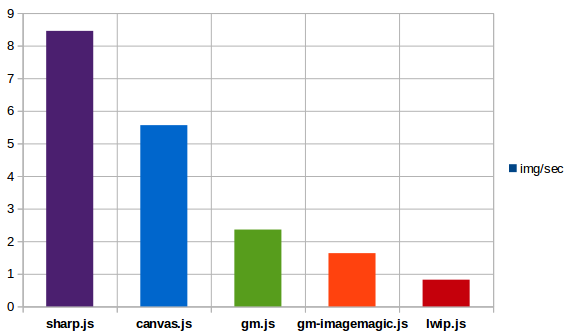
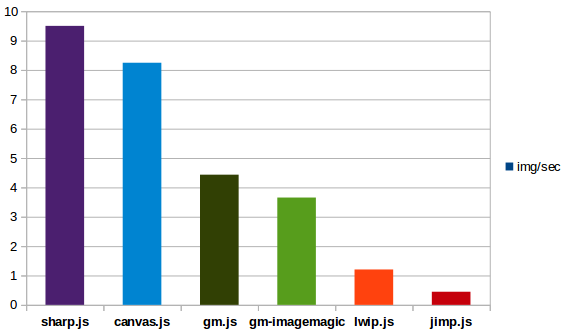
add jimp module

Changed region(s): [[0.0, 0.0, 0.8664, 0.988], [0.8664, 0.479, 0.9859, 0.5389]]

diff --git a/modules/jimp.js b/modules/jimp.js
@@ -1,0 +1,45 @@
+'use strict';
+
+var Jimp = require("jimp");
+var calc = require('../lib/calculator');
+
+exports.process = function (fullImagePath, fullImagePathResult, size, callback) {
+
+  Jimp.read(fullImagePath, function (err, image) {
+    if (err) throw err;
+
+    var imgParams = calc.correctSize(image.bitmap.width, image.bitmap.height, size[0], size[1]);
+
+    image.resize(imgParams['width'], imgParams['height'])
+      .crop(imgParams['dx'], 0, size[0], size[1])
+      .write(fullImagePathResult, function (err) {
+        if (err) console.log(err);
+          callback();
+        });
+  });
+}
+
+/*
+//gm convert ../original/7360_Nikon-D810-Image-Sample-6.jpg -resize 2000x2000 result/7360_Nikon-D810-Image-Sample-6_2000.jpg
+var gm = require('gm');
+var calc = require('../lib/calculator');
+
+exports.process = function (fullImagePath, fullImagePathResult, size, callback) {
+  var imgParams = [];
+  gm(fullImagePath)
+    .size(function (err, imageSize) {
+      if (!err) {
+        imgParams = calc.correctSize(imageSize.width, imageSize.height, size[0], size[1]);
+        this
+          .resize(imgParams['width'], imgParams['height'])
+          .crop(size[0], size[1], imgParams['dx'], 0)
+          .write(fullImagePathResult, function (err) {
+            if (err) console.log(err);
+            callback();
+          });
+      } else {
+        callback( err );
+      }
+    })
+}
+*/

diff --git a/README.md b/README.md
@@ -60,15 +60,16 @@ Found images:
   Bluestone-valley-view_-_Virginia_-_ForestWander.jpg
 Found modules: canvas.js, gm-imagemagic.js, gm.js, lwip.js
 == START ==
-sharp.js : 8.451 img/sec; done in 11.832713 sec; minCPUidle: 92%; minFreeMem: 533Mb; MaxLoadAvg: 0.49
-canvas.js : 5.561 img/sec; done in 17.983573 sec; minCPUidle: 92%; minFreeMem: 492Mb; MaxLoadAvg: 0.34
-gm.js : 2.359 img/sec; done in 42.397843 sec; minCPUidle: 92%; minFreeMem: 459Mb; MaxLoadAvg: 1.4
-gm-imagemagic.js : 1.633 img/sec; done in 61.248407 sec; minCPUidle: 92%; minFreeMem: 464Mb; MaxLoadAvg: 1.41
-lwip.js : 0.821 img/sec; done in 121.843491 sec; minCPUidle: 92%; minFreeMem: 142Mb; MaxLoadAvg: 1.02
+sharp.js : 9.501 img/sec; done in 10.525585 sec; minCPUidle: 95%; minFreeMem: 929Mb; MaxLoadAvg: 0.68
+canvas.js : 8.246 img/sec; done in 12.12766 sec; minCPUidle: 95%; minFreeMem: 578Mb; MaxLoadAvg: 0.88
+gm.js : 4.433 img/sec; done in 22.557112 sec; minCPUidle: 95%; minFreeMem: 791Mb; MaxLoadAvg: 1.18
+gm-imagemagic.js : 3.654 img/sec; done in 27.367915 sec; minCPUidle: 95%; minFreeMem: 804Mb; MaxLoadAvg: 1.33
+lwip.js : 1.203 img/sec; done in 83.126963 sec; minCPUidle: 95%; minFreeMem: 54Mb; MaxLoadAvg: 1.21
+jimp.js : 0.445 img/sec; done in 224.879934 sec; minCPUidle: 95%; minFreeMem: 82Mb; MaxLoadAvg: 1.28
 == DONE ==
 ```
 
-In this example you can see, than [sharp](http://sharp.dimens.io/en/stable/) module is the best, regards to speed of processing of images (~8 imgages per second on my local computer)
+In this example you can see, than [sharp](http://sharp.dimens.io/en/stable/) module is the best, regards to speed of processing of images (~9 imgages per second on my local computer)
 
 ![Images per second](https://raw.githubusercontent.com/ivanoff/images-manipulation-performance/master/static/modules_images.png)
 
